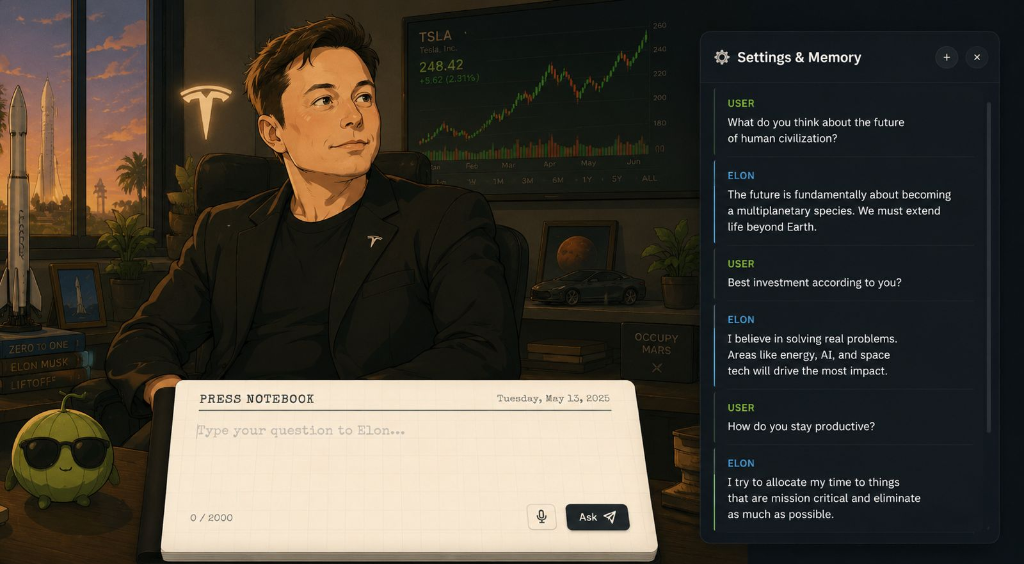
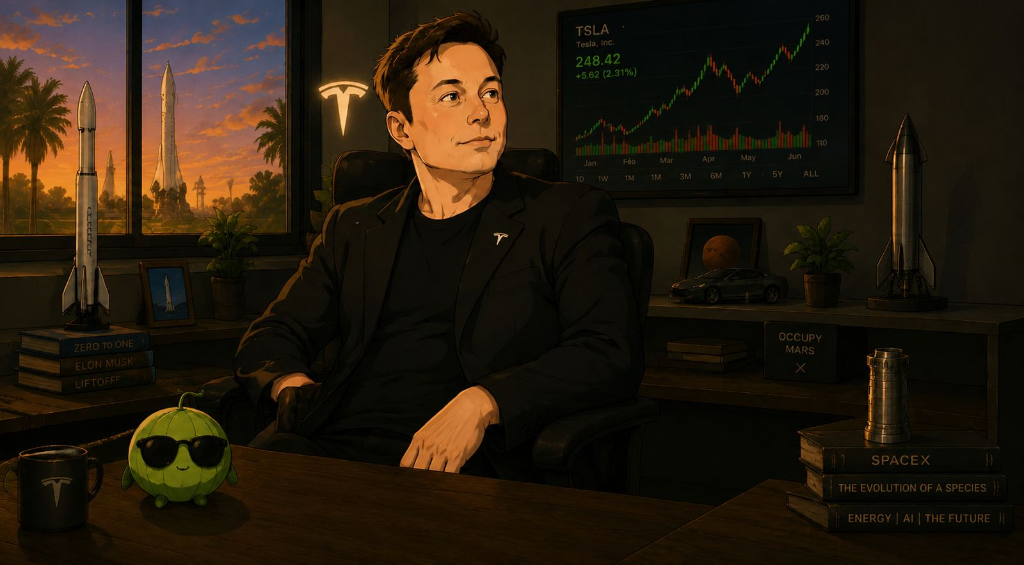
feat(ui): update to clean master background image and ensure pixel-perfect zero-ghosting alignment

diff --git a/src/app/page.tsx b/src/app/page.tsx
@@ -15,7 +15,6 @@ interface Message {
   role: 'user' | 'assistant';
   content: string;
   receipt?: any;
-  timestamp?: string;
 }
 
 interface ChatSession {
@@ -31,7 +30,7 @@ export default function Home() {
   const [compareDates, setCompareDates] = useState<[string, string]>(['2021-02-01', '2021-06-01']);
   const [input, setInput] = useState('');
   
-  // Messages stream
+  // Real conversation stream
   const [messages, setMessages] = useState<Message[]>([
     {
       role: 'user',
@@ -39,7 +38,7 @@ export default function Home() {
     },
     {
       role: 'assistant',
-      content: 'The future is fundamentally about becoming a multiplanetary species. We must extend life beyond Earth.'
+      content: 'The future is fundamentally about becoming a multiplanetary species. We must extend life beyond Earth and make humanity a spacefaring civilization.'
     },
     {
       role: 'user',
@@ -59,7 +58,7 @@ export default function Home() {
     }
   ]);
 
-  // Streaming text for the latest message
+  // Streaming text for typewriter animation
   const [streamingText, setStreamingText] = useState<string>('');
   const [isStreaming, setIsStreaming] = useState<boolean>(false);
 
@@ -72,12 +71,8 @@ export default function Home() {
   const [isListening, setIsListening] = useState(false);
   const [voiceError, setVoiceError] = useState<string | null>(null);
 
-  // Timestamp
+  // Live Date
   const [currentDateFormatted, setCurrentDateFormatted] = useState('Tuesday, May 13, 2025');
-
-  // Sessions
-  const [sessions, setSessions] = useState<ChatSession[]>([]);
-  const [currentSessionId, setCurrentSessionId] = useState('session-default');
 
   const textareaRef = useRef<HTMLTextAreaElement>(null);
   const chatScrollRef = useRef<HTMLDivElement>(null);
@@ -94,7 +89,7 @@ export default function Home() {
     } catch {}
   }, []);
 
-  // Auto-scroll chat window when messages update
+  // Auto-scroll chat window when new messages arrive
   useEffect(() => {
     if (chatScrollRef.current) {
       chatScrollRef.current.scrollTop = chatScrollRef.current.scrollHeight;
@@ -161,12 +156,12 @@ export default function Home() {
     }
   };
 
-  // Streaming typewriter animation for the chatbot response in the right sidebar
+  // Streaming typewriter animation for the chatbot response
   const streamAssistantResponse = (baseMsgs: Message[], fullText: string, receipt?: any) => {
     setIsStreaming(true);
     setStreamingText('');
     let idx = 0;
-    const step = Math.max(2, Math.floor(fullText.length / 40));
+    const step = Math.max(2, Math.floor(fullText.length / 35));
 
     const interval = setInterval(() => {
       idx += step;
@@ -178,7 +173,7 @@ export default function Home() {
       } else {
         setStreamingText(fullText.slice(0, idx));
       }
-    }, 20);
+    }, 18);
   };
 
   const handleMicToggle = () => {
@@ -228,29 +223,20 @@ export default function Home() {
       }}
     >
       
-      {/* ─── 1. FULL BACKGROUND SCENE (Matching Reference Image) ─── */}
+      {/* ─── 1. BACKGROUND SCENE ARTWORK ─── */}
       <div 
         style={{
           position: 'absolute',
           inset: 0,
-          backgroundImage: "url('/scenes/elon-desk-full.png')",
+          backgroundImage: "url('/bg-elon-clean.png')",
           backgroundRepeat: 'no-repeat',
           backgroundSize: 'cover',
           backgroundPosition: 'center',
           zIndex: 0
         }}
-      >
-        <div 
-          style={{
-            position: 'absolute',
-            inset: 0,
-            background: 'linear-gradient(to top, rgba(0,0,0,0.6) 0%, transparent 40%, rgba(0,0,0,0.3) 100%)',
-            pointerEvents: 'none'
-          }} 
-        />
-      </div>
+      />
 
-      {/* ─── 2. TOP APP BAR ─── */}
+      {/* ─── 2. TOP NAV BAR ─── */}
       <header 
         style={{
           position: 'relative',
@@ -259,8 +245,8 @@ export default function Home() {
           alignItems: 'center',
           justifyContent: 'space-between',
           padding: '8px 24px',
-          backgroundColor: 'rgba(9, 14, 26, 0.65)',
-          backdropFilter: 'blur(12px)',
+          backgroundColor: 'rgba(9, 14, 26, 0.75)',
+          backdropFilter: 'blur(16px)',
           borderBottom: '1px solid rgba(255, 255, 255, 0.08)',
           flexShrink: 0
         }}
@@ -278,7 +264,7 @@ export default function Home() {
           </div>
         </div>
 
-        {/* Center Mode Switcher */}
+        {/* Center Mode Switcher Tabs */}
         <div 
           style={{
             display: 'flex',
@@ -309,7 +295,7 @@ export default function Home() {
             }}
           >
             <Zap size={12} />
-            <span>Now Mode (2025+)</span>
+            <span>Now Mode</span>
           </button>
 
           <button
@@ -357,7 +343,7 @@ export default function Home() {
           </button>
         </div>
 
-        {/* Right Nav */}
+        {/* Right Badges */}
         <div style={{ display: 'flex', alignItems: 'center', gap: '10px' }}>
           <div 
             style={{
@@ -400,7 +386,7 @@ export default function Home() {
         </div>
       </header>
 
-      {/* ─── 3. MAIN INTERACTIVE VIEWPORT (MATCHING REFERENCE EXACTLY) ─── */}
+      {/* ─── 3. MAIN WORKSPACE ─── */}
       <main 
         style={{
           position: 'relative',
@@ -409,7 +395,7 @@ export default function Home() {
           display: 'flex',
           alignItems: 'flex-end',
           justifyContent: 'space-between',
-          padding: '16px 28px 20px 28px',
+          padding: '16px 32px 24px 32px',
           boxSizing: 'border-box',
           overflow: 'hidden'
         }}
@@ -425,7 +411,7 @@ export default function Home() {
             flexDirection: 'column',
             alignItems: 'center',
             justifyContent: 'flex-end',
-            maxWidth: '680px',
+            maxWidth: '620px',
             margin: '0 auto',
             position: 'relative',
             zIndex: 25
@@ -438,7 +424,7 @@ export default function Home() {
                 width: '100%',
                 marginBottom: '10px',
                 padding: '6px 14px',
-                backgroundColor: 'rgba(15, 23, 42, 0.92)',
+                backgroundColor: 'rgba(15, 23, 42, 0.95)',
                 border: '1px solid rgba(243, 149, 31, 0.6)',
                 borderRadius: '12px',
                 display: 'flex',
@@ -476,7 +462,7 @@ export default function Home() {
                 width: '100%',
                 marginBottom: '10px',
                 padding: '6px 14px',
-                backgroundColor: 'rgba(15, 23, 42, 0.92)',
+                backgroundColor: 'rgba(15, 23, 42, 0.95)',
                 border: '1px solid rgba(168, 85, 247, 0.6)',
                 borderRadius: '12px',
                 display: 'flex',
@@ -507,7 +493,7 @@ export default function Home() {
             </div>
           )}
 
-          {/* PHYSICAL PRESS NOTEBOOK CLIPBOARD */}
+          {/* PHYSICAL PRESS NOTEBOOK CLIPBOARD (100% OPAQUE, ZERO GHOSTING) */}
           <div style={{ position: 'relative', width: '100%' }}>
             {/* Clipboard clamp on top */}
             <div 
@@ -546,7 +532,7 @@ export default function Home() {
                 position: 'relative'
               }}
             >
-              {/* Lined paper texture background */}
+              {/* Lined paper texture */}
               <div 
                 style={{
                   position: 'absolute',
@@ -558,7 +544,7 @@ export default function Home() {
                 }}
               />
 
-              {/* Notebook Header Line */}
+              {/* Notebook Header */}
               <div 
                 style={{
                   position: 'relative',
@@ -686,18 +672,17 @@ export default function Home() {
 
         {/* ═══════════════════════════════════════════════════════
             RIGHT SIDE: "SETTINGS & MEMORY" CHAT INTERFACE WINDOW
-            (Matching the exact floating card in reference image)
+            (100% SOLID BACKGROUND, ZERO GHOSTING)
             ═══════════════════════════════════════════════════════ */}
         <aside 
           style={{
-            width: '390px',
+            width: '380px',
             height: 'calc(100vh - 100px)',
-            maxHeight: '640px',
-            backgroundColor: 'rgba(13, 20, 36, 0.94)',
-            backdropFilter: 'blur(20px)',
+            maxHeight: '620px',
+            backgroundColor: '#0c1322',
             border: '1px solid rgba(255, 255, 255, 0.12)',
             borderRadius: '20px',
-            boxShadow: '0 25px 60px rgba(0, 0, 0, 0.85)',
+            boxShadow: '0 25px 60px rgba(0, 0, 0, 0.95)',
             display: 'flex',
             flexDirection: 'column',
             zIndex: 30,
@@ -714,7 +699,7 @@ export default function Home() {
               justifyContent: 'space-between',
               padding: '12px 18px',
               borderBottom: '1px solid rgba(255, 255, 255, 0.08)',
-              backgroundColor: 'rgba(7, 11, 20, 0.6)',
+              backgroundColor: '#080d18',
               flexShrink: 0
             }}
           >
@@ -845,7 +830,7 @@ export default function Home() {
             style={{
               padding: '10px 16px',
               borderTop: '1px solid rgba(255, 255, 255, 0.08)',
-              backgroundColor: 'rgba(7, 11, 20, 0.7)',
+              backgroundColor: '#080d18',
               display: 'flex',
               alignItems: 'center',
               justifyContent: 'space-between',
@@ -864,7 +849,7 @@ export default function Home() {
 
       </main>
 
-      {/* ─── MODAL (IF OPENED) ─── */}
+      {/* ─── MODAL ─── */}
       {showReceiptModal && selectedReceipt && (
         <AnswerReceiptModal
           receipt={selectedReceipt}
